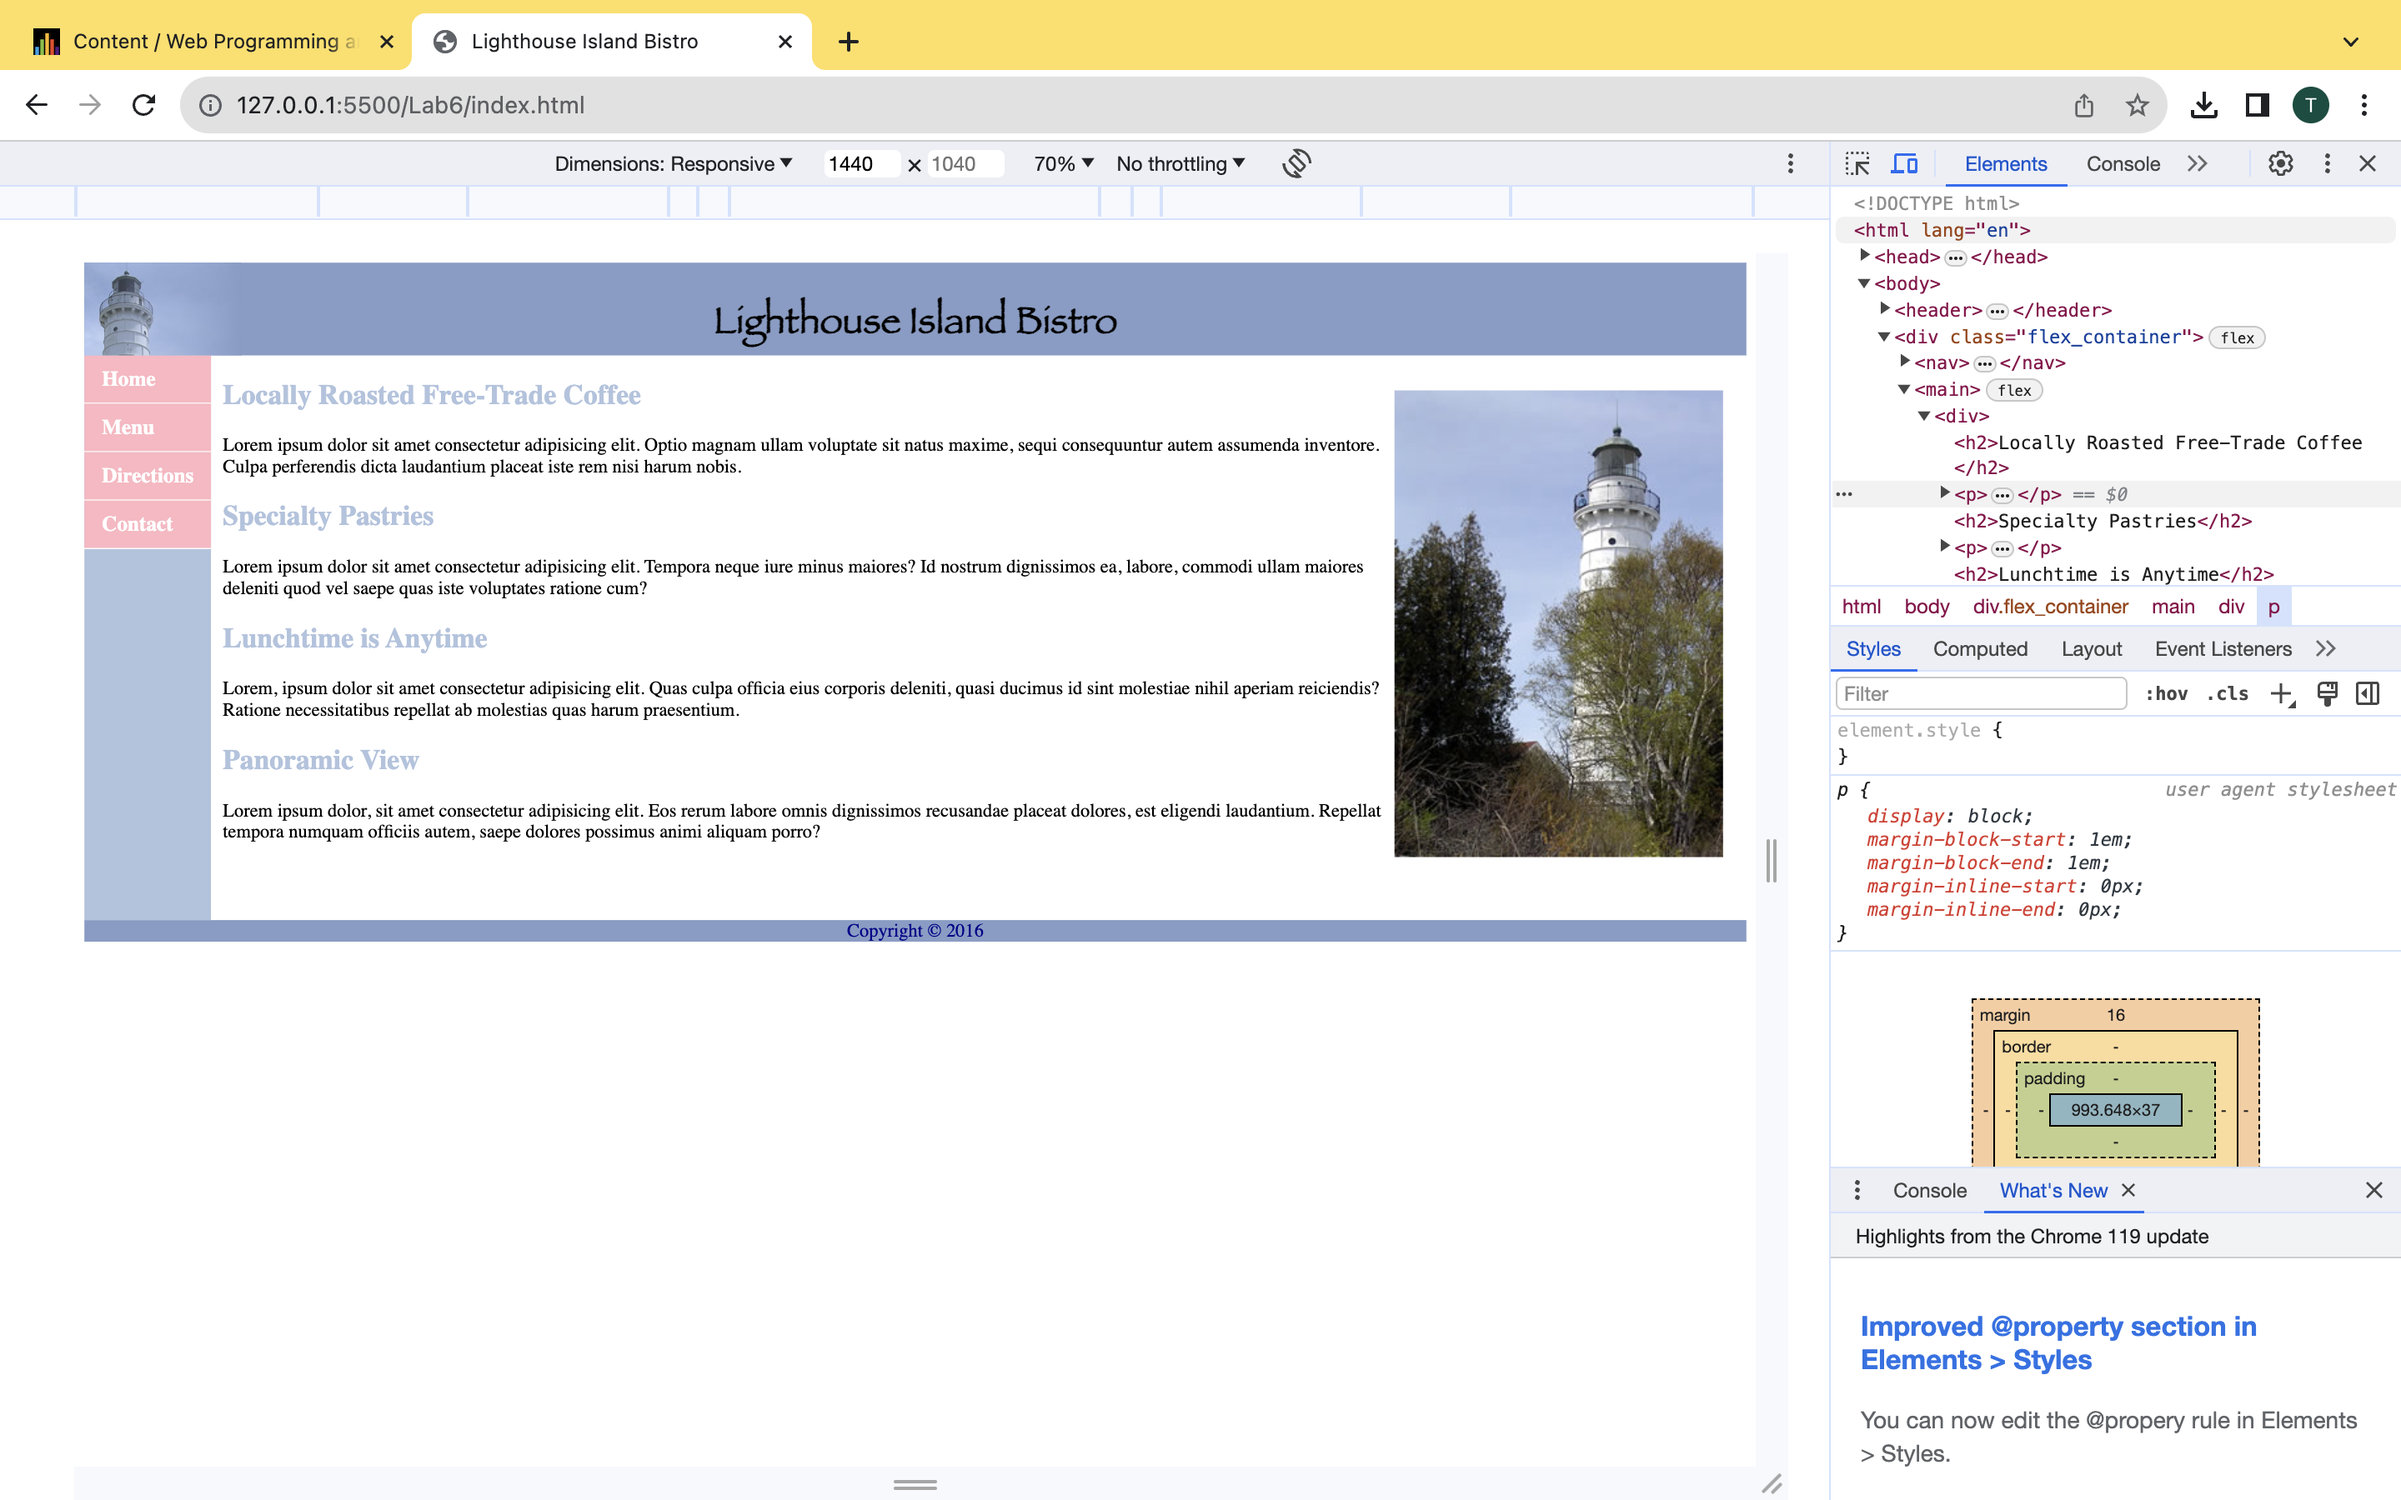
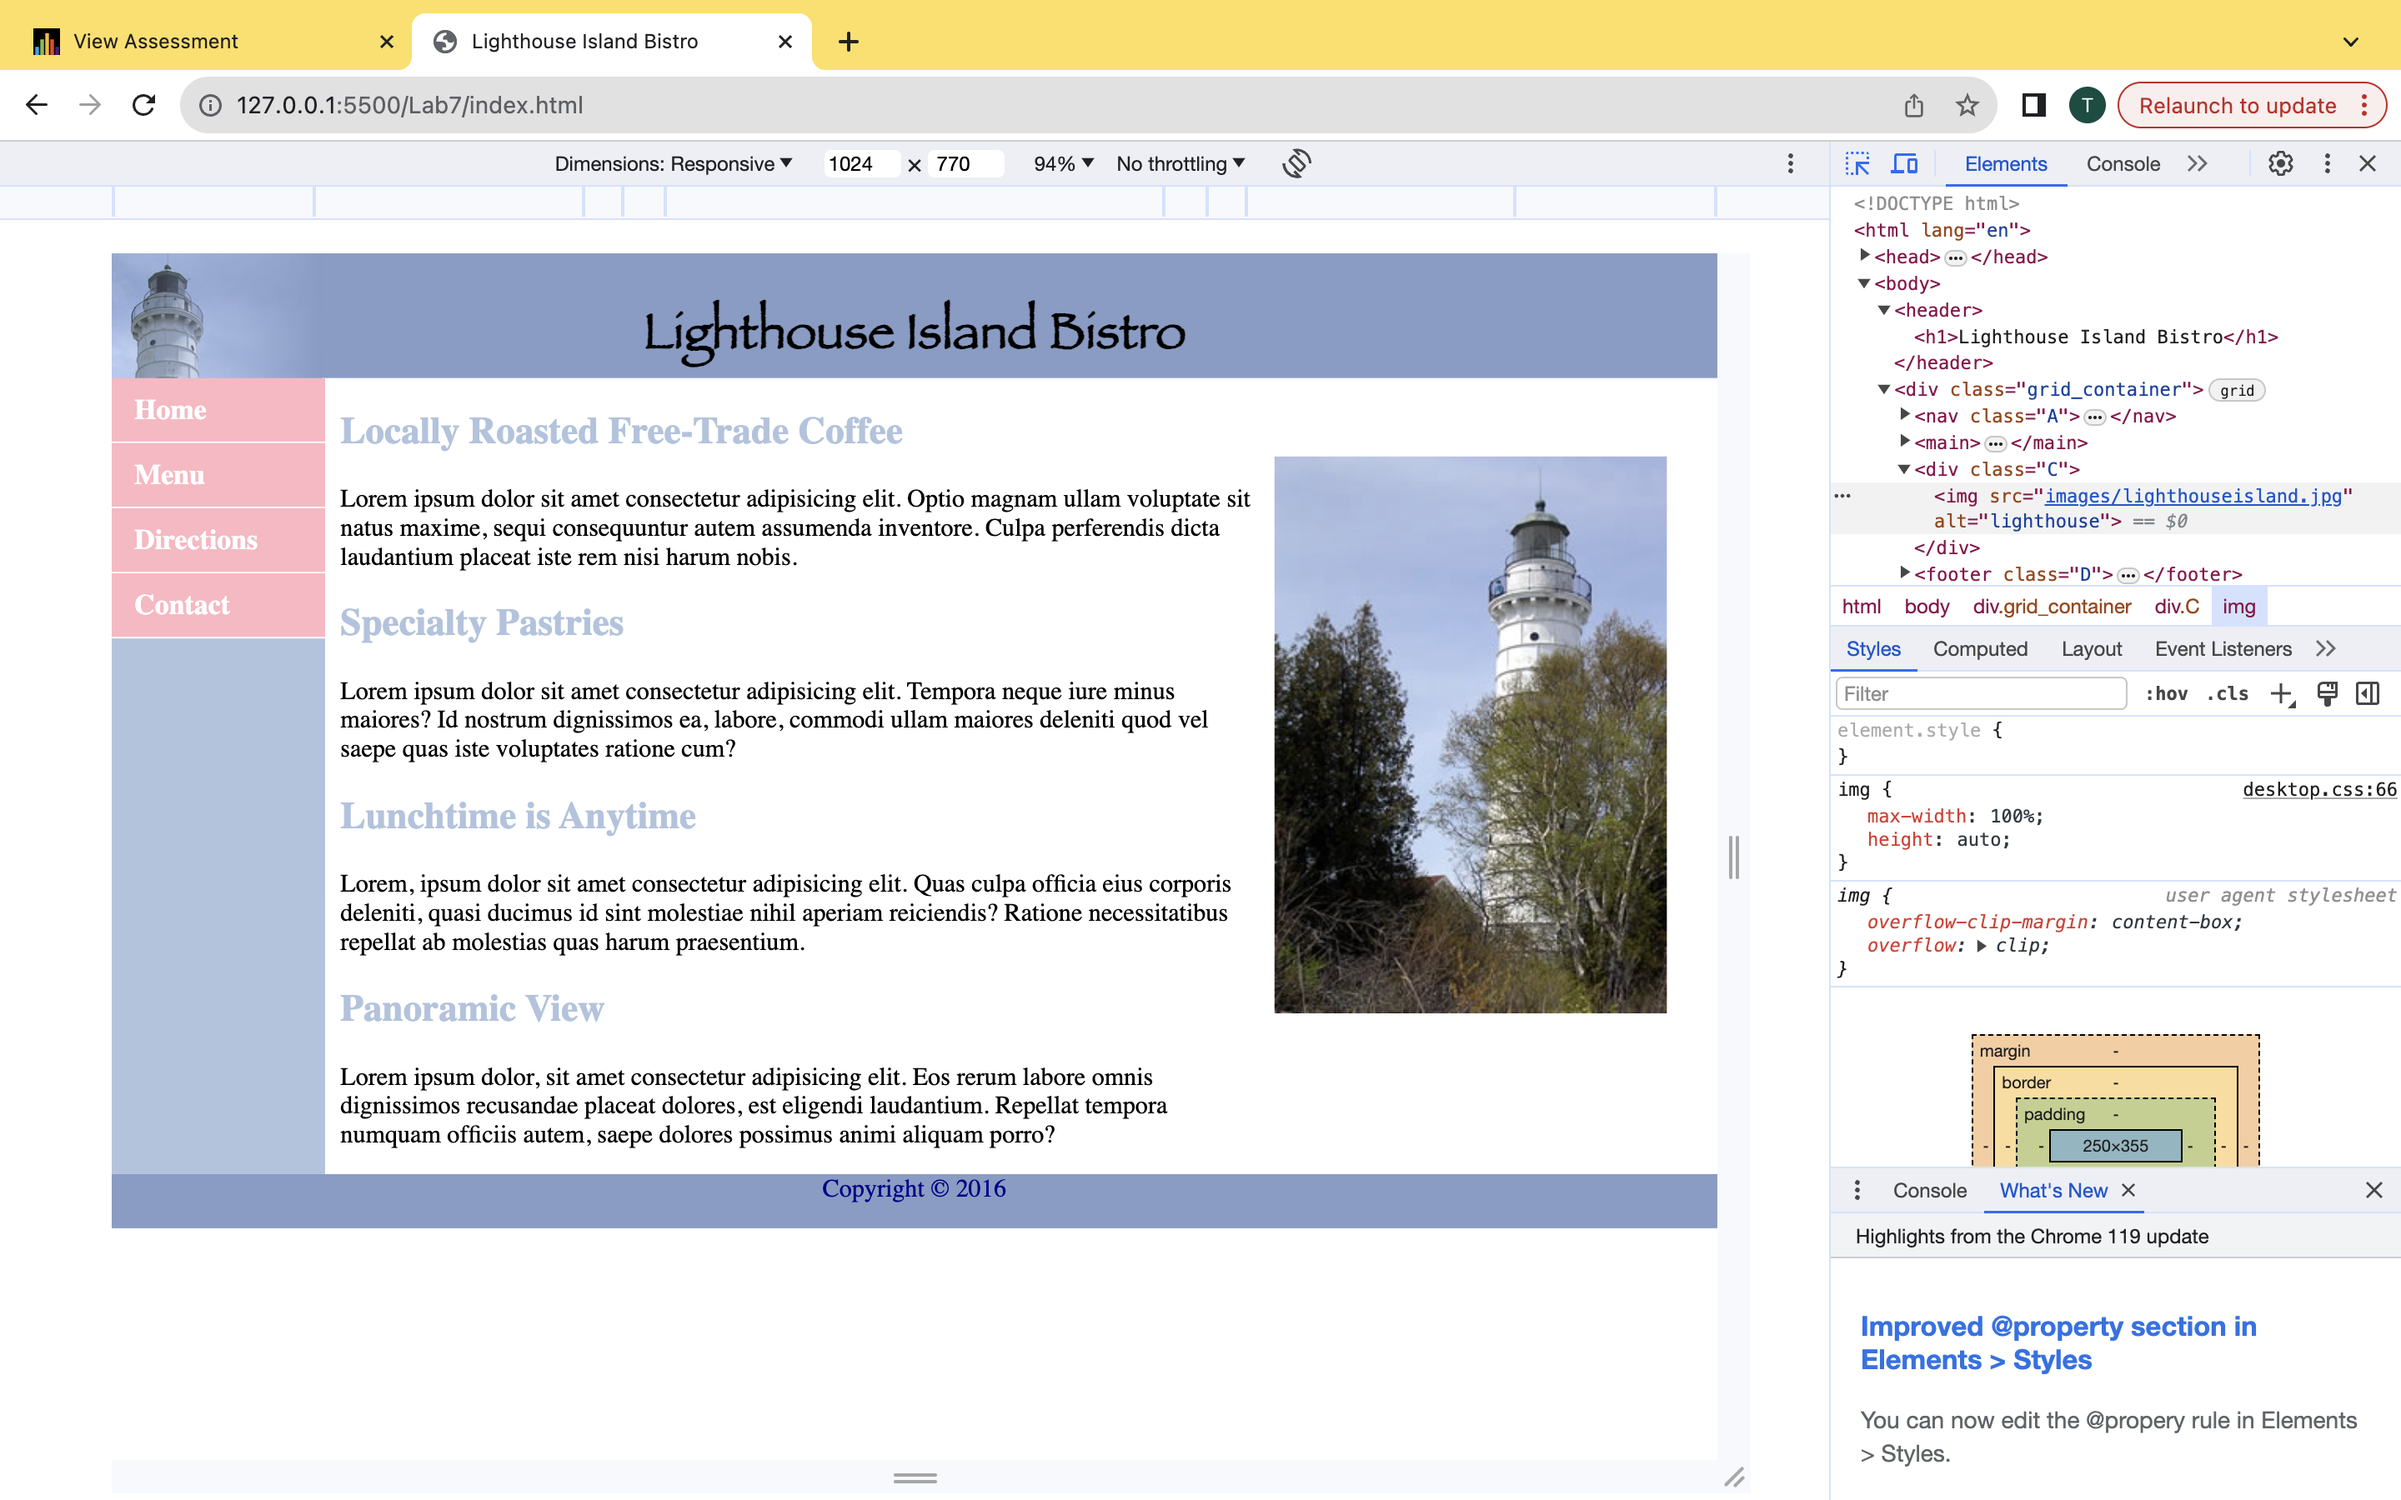
lab 7

diff --git a/index.html b/index.html
@@ -11,10 +11,10 @@
         <h1>Lighthouse Island Bistro</h1>
     </header>
 
-    <div class="flex_container">
+    <div class="grid_container">
     
         
-        <nav>
+        <nav class="A">
             <ul>
                 <li><a href="index.html">Home</a></li>
                 <li><a href="index.html">Menu</a></li>
@@ -23,9 +23,8 @@
             </ul>
         </nav>
 
-
         <main>
-            <div>
+            <div class="B">
             <h2>Locally Roasted Free-Trade Coffee</h2>
             <p>Lorem ipsum dolor sit amet consectetur adipisicing elit. Optio magnam ullam voluptate sit natus maxime, sequi consequuntur autem assumenda inventore. Culpa perferendis dicta laudantium placeat iste rem nisi harum nobis.</p>
             <h2>Specialty Pastries</h2>
@@ -36,18 +35,16 @@
             <p>Lorem ipsum dolor, sit amet consectetur adipisicing elit. Eos rerum labore omnis dignissimos recusandae placeat dolores, est eligendi laudantium. Repellat tempora numquam officiis autem, saepe dolores possimus animi aliquam porro?</p>
             </div>
 
-            <div>
-                <img src="images/lighthouseisland.jpg" alt="lighthouse">
-            </div>
-
         </main>
 
-
-
+        <div class="C">
+            <img src="images/lighthouseisland.jpg" alt="lighthouse">
         </div>
         
-        <footer>
+        <footer class="D">
             <p>Copyright &copy 2016</p>
         </footer>
+    </div>
+
 </body>
 </html>

diff --git a/css/desktop.css b/css/desktop.css
@@ -1,4 +1,9 @@
 
+body {
+    width: 100%;
+    margin: 0;
+}
+
 header {
     background-image: url(../images/lighthouselogo.jpg);
     background-repeat: no-repeat;
@@ -13,15 +18,21 @@ h1 {
     margin: 0;
 }
 
-.flex_container{
-    display: flex;
-    flex-direction: row;
-    flex-wrap: nowrap;
-}
-
-main {
-    display: flex;
-}
+.grid_container{
+    display: grid;
+    grid-template-columns: 1fr 4fr 2fr;
+    grid-template-rows: auto;
+    grid-template-areas: 
+    "A B C"
+    "D D D";
+    max-width: 100%;
+    margin: 0 auto;
+  }
+    .A {grid-area: A;}
+    .B {grid-area: B;}
+    .C {grid-area: C;
+        margin: 50px 20px auto 10px;}
+    .D {grid-area: D;}
 
 nav{
     background-color: lightsteelblue;
@@ -53,9 +64,9 @@ nav ul li {
 }
 
 img {
-    height: 400px;
-    margin: 30px 20px 50px 10px;
-}
+    max-width: 100%;
+    height: auto;
+} 
 
 footer{
     background-color: #869dc7;
@@ -64,7 +75,7 @@ footer{
 }
 
 footer p {
-    margin-top: 0;
+    padding-top: 0;
 }
 
 h2 {

diff --git a/css/tablet.css b/css/tablet.css
@@ -14,11 +14,20 @@ h1 {
     margin: 0;
 }
 
-.flex_container{
-    display: flex;
-    flex-direction: column;
-    flex-wrap: nowrap; 
+.grid_container{
+    display: grid;
+    grid-template-columns: 60% 40%;
+    grid-template-rows: auto;
+    grid-template-areas: 
+    "A A"
+    "B C"
+    "D D";
 }
+.A {grid-area: A;}
+.B {grid-area: B;}
+.C {grid-area: C;
+    margin: 50px 20px auto 10px;}
+.D {grid-area: D;}
 
 nav{
     margin: 0;
@@ -54,24 +63,19 @@ nav ul li {
 }
 
 main {
-    display: flex;
     padding-left: 20px;
     background-color: white;
 }
 
 img {
-    height: 400px;
-    margin: 50px 0 50px 20px;
+    width: 100%;
+    height: auto;
 }
 
 footer{
     background-color: #869dc7;
     text-align: center;
     color: darkblue;
-}
-
-footer p {
-    margin-top: 0;
 }
 
 h2 {

diff --git a/css/mobile.css b/css/mobile.css
@@ -16,9 +16,19 @@ h1 {
     transform: scaleX(-1);
 }
 
-.flex_container {
-    display: flex;
-    flex-direction: column;
+.grid_container {
+    display: grid;
+    grid-template-columns: 100%;
+    grid-template-rows: auto;
+    grid-template-areas: 
+    "A"
+    "B"
+    "C"
+    "D";
+    max-width: 100%;
+}
+.C{
+    display: none;
 }
 
 nav{
@@ -53,7 +63,7 @@ nav ul li {
 
 main {
     background-color: white;
-    padding-left: 10px;
+    padding: 0 15px;
 }
 
 
